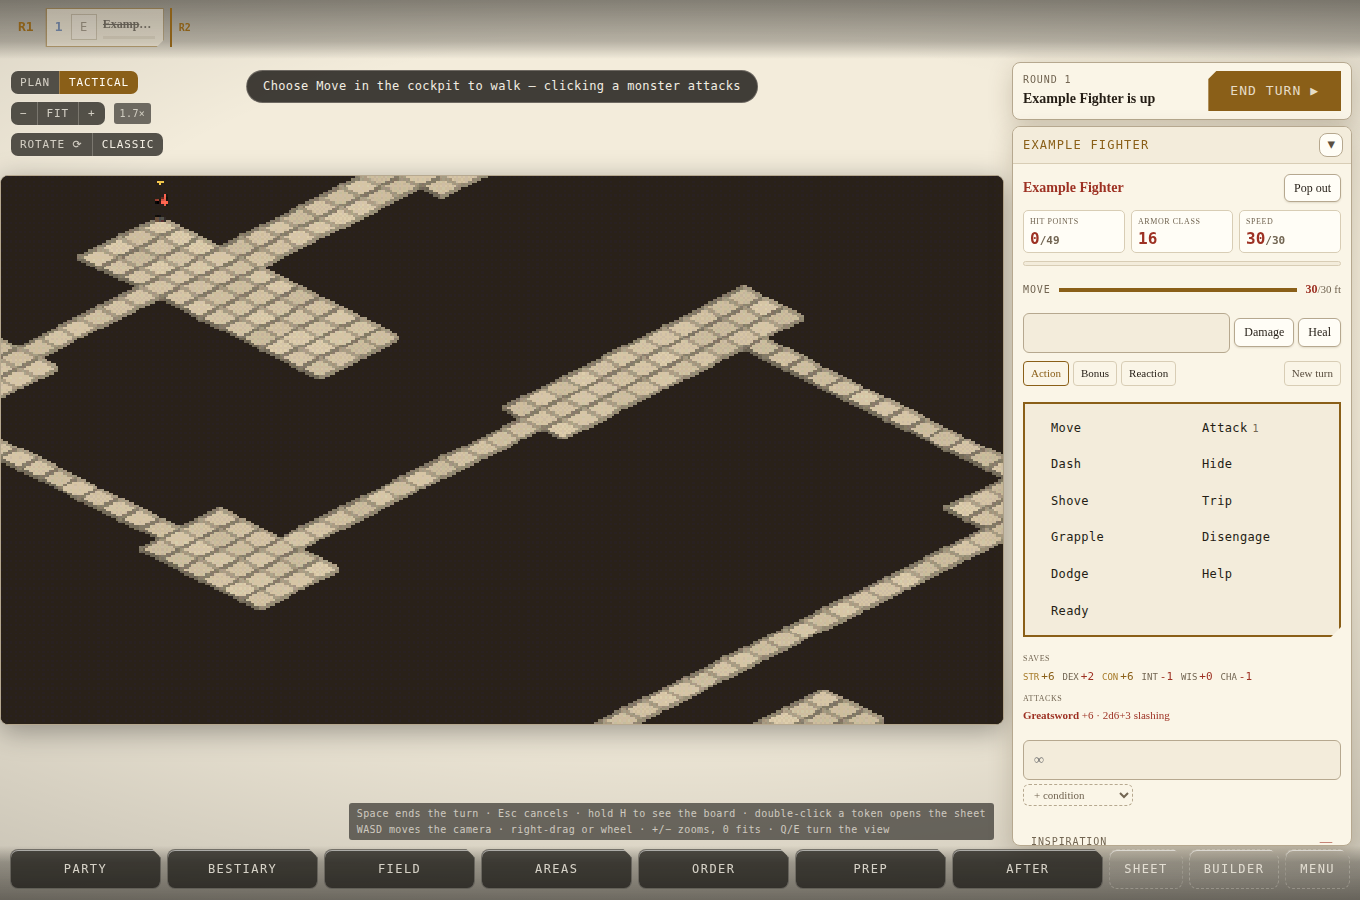
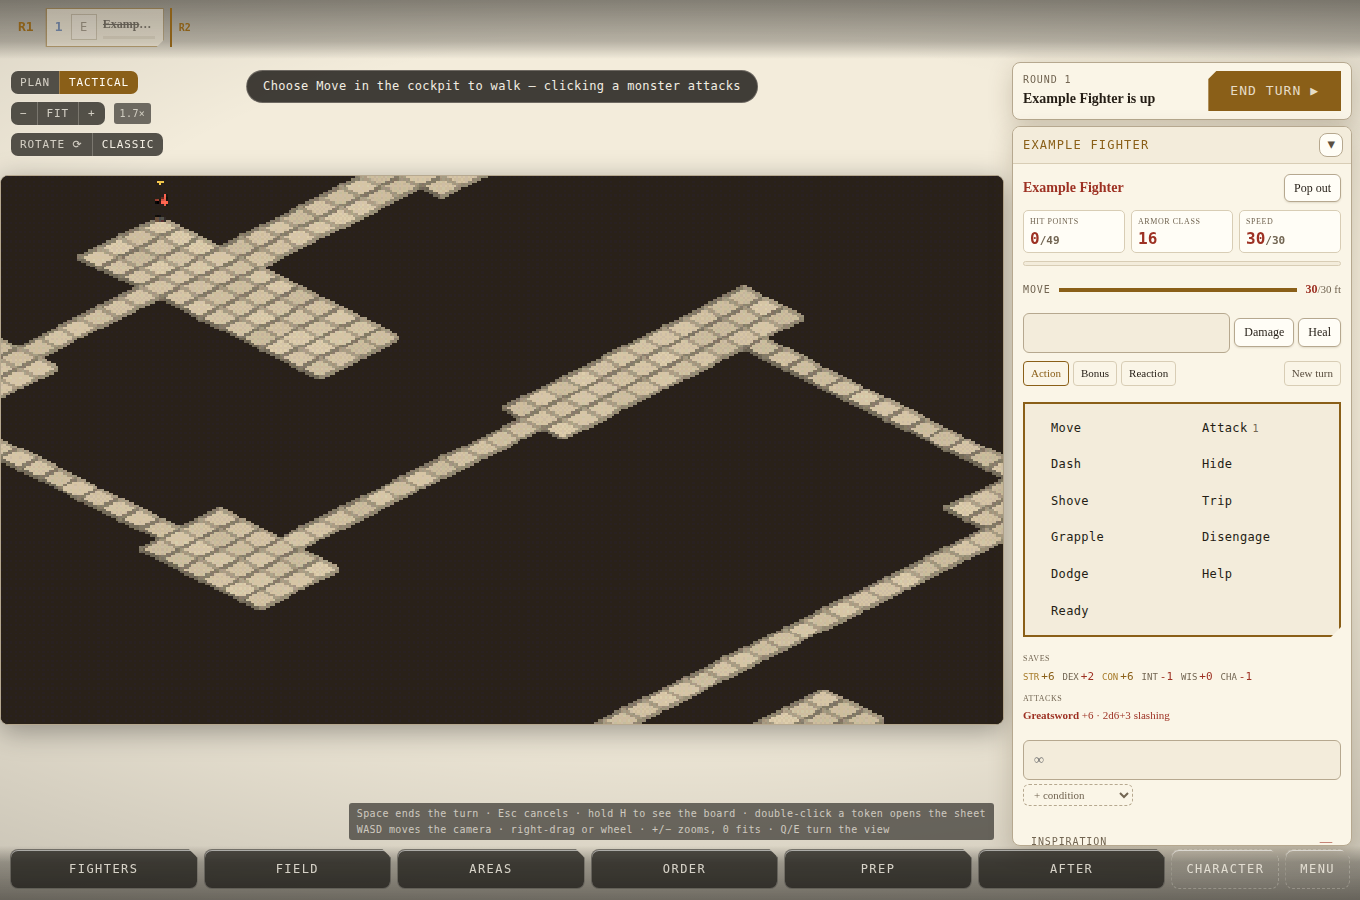
75: the UI pass - fewer doors, each in the right wall
The audit measured, then moved. The battle bar had grown to ten
shrink-only buttons and clipped below ~860px - the reported "no place
on field button" was this. Party+Bestiary merged into Fighters,
Sheet+Builder into one Character exit (the sheet already carries Edit
in Builder), and the bar wears overflow-x: auto as a backstop, so the
bar is eight buttons that cannot vanish. The group save moved from
Order into Areas beside the hazards that call for it. The camera
cluster slides clear of an open drawer (.btl-stage:has(.btl-drawer))
instead of sitting unclickable beneath it. The Field drawer leads with
its verbs and points at the Dungeons tab. Species x Class left the hub
for a door on the Builder's game bar, with Back to the Builder as its
exit.

Tests translate the old drawer names in one helper map; the four
save-panel opens now open Areas. Probes run57/65-70 updated for the
new labels; run75 walks the whole pass in both themes, including
eight-buttons-whole at 820px and Classic look pressable with a drawer
open.

Claude-Session: https://claude.ai/code/session_01P7mvAGGDaTo6pgMbhp2jHV

diff --git a/src/components/TableTab.tsx b/src/components/TableTab.tsx
@@ -216,7 +216,6 @@ export function TableTab({
   bestiary,
   ruleset,
   onHome,
-  onEdit,
   onSheet,
 }: {
   roster: Roster;
@@ -247,7 +246,6 @@ export function TableTab({
    * Every other pair in the app already carries a door to its partner. This
    * is that rule finished rather than a new one.
    */
-  onEdit?: () => void;
   onSheet?: () => void;
 }) {
   const { monsters: srd, loading } = useMonsters();
@@ -4582,29 +4580,11 @@ export function TableTab({
       subtitle="The ground you are fighting on, and how the table is looking at it."
     >
       {/*
-        The optional rules, where the rule applies. Off is the book: the
-        app's claim is that it plays fifth edition, and a number quietly
-        disagreeing with it would make every other number harder to trust.
-        The log names each one either way, so a fight can be read back and
-        understood whichever way the switch was set.
-      */}
-      <div className="row" style={{ gap: 12, flexWrap: 'wrap', marginBottom: 8 }}>
-        {HOUSE_RULE_INFO.map((rule) => (
-          <label className="checkbox" key={rule.id} title={rule.hint}>
-            <input
-              type="checkbox"
-              checked={houseRules[rule.id]}
-              onChange={(e) => setHouseRules({ ...houseRules, [rule.id]: e.target.checked })}
-            />
-            <span>{rule.label}</span>
-          </label>
-        ))}
-      </div>
-
-      {/*
-        The picker: the Dungeons tab's drawer, read-only from here. Loading
-        copies the saved map's fields onto the live encounter in one write -
-        tokens come off, because the rooms they stood in are gone.
+        §75: the panel leads with its verbs - load a place, seat everyone -
+        and the switches follow. The picker is the Dungeons tab's drawer,
+        read-only from here; loading copies the saved map's fields onto the
+        live encounter in one write, and tokens come off, because the rooms
+        they stood in are gone.
       */}
       {dungeonLibrary.length > 0 && (
         <div className="row" style={{ gap: 6, flexWrap: 'wrap', marginBottom: 8 }}>
@@ -4635,6 +4615,8 @@ export function TableTab({
           : layout
             ? `Hand-built · ${dungeon.rooms.length} ${dungeon.rooms.length === 1 ? 'room' : 'rooms'} · each square is 5 ft.`
             : `Seed ${seed} · ${dungeon.rooms.length} rooms · each square is 5 ft.`}
+        {' '}Rooms, corridors and denizens are drawn in the Dungeons tab; this drawer
+        loads what it saves.
       </p>
 
       <div className="row" style={{ gap: 6, flexWrap: 'wrap', marginBottom: 8 }}>
@@ -4662,6 +4644,26 @@ export function TableTab({
         )}
       </div>
 
+
+            {/*
+        The optional rules, where the rule applies. Off is the book: the
+        app's claim is that it plays fifth edition, and a number quietly
+        disagreeing with it would make every other number harder to trust.
+        The log names each one either way, so a fight can be read back and
+        understood whichever way the switch was set.
+      */}
+      <div className="row" style={{ gap: 12, flexWrap: 'wrap', margin: '8px 0' }}>
+        {HOUSE_RULE_INFO.map((rule) => (
+          <label className="checkbox" key={rule.id} title={rule.hint}>
+            <input
+              type="checkbox"
+              checked={houseRules[rule.id]}
+              onChange={(e) => setHouseRules({ ...houseRules, [rule.id]: e.target.checked })}
+            />
+            <span>{rule.label}</span>
+          </label>
+        ))}
+      </div>
 
       <div className="row" style={{ alignItems: 'center', gap: 12, marginBottom: 8, flexWrap: 'wrap' }}>
         <label className="checkbox" style={{ margin: 0 }}>
@@ -5787,12 +5789,20 @@ export function TableTab({
     about a fight rather than for running one. Kept-but-unused code that
     carries its own tests reads as load-bearing, so it goes.
   */
+  /*
+    §75: seven drawers became six, and the bar's three exits became two,
+    because the bar had quietly grown to ten buttons against a layout whose
+    own comment promised seven. The merges are by subject, not just by
+    count: Fighters is one answer to "who is in this fight" (the party
+    list, then the bestiary the §11.3 search already spanned), and the
+    group-save form lives with Areas because the room usually rolls right
+    after the fireball lands on it.
+  */
   const drawers = [
-    { id: 'party', label: 'Party', hint: 'Who is in the fight, and who could be', content: partyPanel },
-    { id: 'foes', label: 'Bestiary', hint: 'Search the stat blocks and add them', content: monstersPanel },
+    { id: 'party', label: 'Fighters', hint: 'The party, the bestiary, and who joins the fight', content: <>{partyPanel}{monstersPanel}</> },
     { id: 'field', label: 'Field', hint: 'The ground, the dungeon, fog and the camera', content: fieldPanel },
-    { id: 'areas', label: 'Areas', hint: 'Spells on the ground', content: zonePanel },
-    { id: 'order', label: 'Order', hint: 'Initiative, hit points, conditions, saves', content: <>{fightPanel}{savesPanel}</> },
+    { id: 'areas', label: 'Areas', hint: 'Spells on the ground, and the saves they call for', content: <>{zonePanel}{savesPanel}</> },
+    { id: 'order', label: 'Order', hint: 'Initiative, hit points, conditions', content: fightPanel },
     { id: 'plan', label: 'Prep', hint: 'What this fight will do, and the drawer of saved ones', content: <>{forecastPanel}{libraryPanel}</> },
     { id: 'after', label: 'After', hint: 'The debrief, the payout and the whole log', content: <>{debriefPanel}{logPanel}</> },
   ] as const;
@@ -5934,20 +5944,10 @@ export function TableTab({
             <button
               type="button"
               className="btl-cmd btl-cmd-home"
-              title="The character sheet for whoever is loaded. The fight stays on the table."
+              title="The loaded character's sheet - the Builder is one click from there. The fight stays on the table."
               onClick={onSheet}
             >
-              Sheet
-            </button>
-          )}
-          {onEdit && (
-            <button
-              type="button"
-              className="btl-cmd btl-cmd-home"
-              title="Edit the loaded character. The fight stays on the table."
-              onClick={onEdit}
-            >
-              Builder
+              Character
             </button>
           )}
           {onHome && (

diff --git a/src/components/TableTab.test.tsx b/src/components/TableTab.test.tsx
@@ -74,17 +74,25 @@ function setup(initial: Roster, bestiary: Monster[] = [], ruleset: Ruleset = '20
   helpers that have no `user` in scope, and a synchronous `fireEvent` is enough
   to press a button that only flips component state.
 */
+/*
+  §75 merged Party and Bestiary into one Fighters drawer; the hundred-odd
+  call sites keep their old names and this remap keeps them honest, because
+  both panels now live behind the one button.
+*/
+const DRAWER_OF: Record<string, string> = { Party: 'Fighters', Bestiary: 'Fighters' };
+
 const openSync = (label: string) => {
   const bar = document.querySelector('.btl-bar');
   if (!bar) return;
-  const button = within(bar as HTMLElement).queryByRole('button', { name: label });
+  const name = DRAWER_OF[label] ?? label;
+  const button = within(bar as HTMLElement).queryByRole('button', { name });
   if (button && button.getAttribute('aria-pressed') !== 'true') fireEvent.click(button);
 };
 
 const open = async (user: ReturnType<typeof userEvent.setup>, label: string) => {
   const bar = document.querySelector('.btl-bar');
   if (!bar) return;
-  const button = within(bar as HTMLElement).getByRole('button', { name: label });
+  const button = within(bar as HTMLElement).getByRole('button', { name: DRAWER_OF[label] ?? label });
   if (button.getAttribute('aria-pressed') !== 'true') await user.click(button);
 };
 
@@ -1261,8 +1269,9 @@ describe('running the monsters', () => {
     const view = setup(party());
     await fightWithGoblin(user, view);
 
-    // DC 30: everybody fails, so the arithmetic is deterministic.
-    await open(user, 'Order');
+    // DC 30: everybody fails, so the arithmetic is deterministic. The group
+    // save moved in with the areas (§75): the room rolls where the hazard is.
+    await open(user, 'Areas');
     fireEvent.change(screen.getByLabelText('DC'), { target: { value: '30' } });
     fireEvent.change(screen.getByLabelText('Damage'), { target: { value: '8' } });
     await user.click(screen.getByRole('button', { name: /roll the room/i }));
@@ -1300,7 +1309,7 @@ describe('the fight’s clocks and the drawer', () => {
     await user.click(within(entry).getByRole('button', { name: 'Add' }));
 
     // Fireball the room: everyone fails at DC 30, 20 damage → DC 10 vs half.
-    await open(user, 'Order');
+    await open(user, 'Areas');
     fireEvent.change(screen.getByLabelText('DC'), { target: { value: '30' } });
     fireEvent.change(screen.getByLabelText('Damage'), { target: { value: '22' } });
     await user.click(screen.getByRole('button', { name: /roll the room/i }));
@@ -4135,12 +4144,12 @@ describe('ground that helps, and ground that picks a side', () => {
 
     // Roll the room once with no aura, then again standing in one: the same
     // character's bonus is three higher, which is the whole feature.
-    await open(user, 'Order');
+    await open(user, 'Areas');
     await user.click(screen.getByRole('button', { name: /roll the room/i }));
     const before = [...document.querySelectorAll('.reasons li')][0]?.textContent ?? '';
 
     await dropAt6(user, 'aura-of-protection', standing);
-    await open(user, 'Order');
+    await open(user, 'Areas');
     await user.click(screen.getByRole('button', { name: /roll the room/i }));
     const after = [...document.querySelectorAll('.reasons li')][0]?.textContent ?? '';
 

diff --git a/src/App.tsx b/src/App.tsx
@@ -612,7 +612,6 @@ export default function App() {
           state: build.name?.trim() || undefined,
         },
         { id: 'sheet', label: 'The character sheet', hint: 'The paper one, and the dice that go with it' },
-        { id: 'pairings', label: 'Species × Class', hint: 'What each pairing is worth, before you commit to one' },
       ],
     },
     {
@@ -713,8 +712,20 @@ export default function App() {
           </button>
           <span className="gbar-screen">{TAB_LABELS[tab]}</span>
           <span className="gbar-actions">
+            {tab === 'pairings' && (
+              <button className="btn btn-sm" onClick={() => setTab('builder')}>
+                Back to the Builder
+              </button>
+            )}
             {tab === 'builder' && (
               <>
+                <button
+                  className="btn btn-sm"
+                  title="Every species × class pairing rated - the reference this screen decides against"
+                  onClick={() => setTab('pairings')}
+                >
+                  Species × Class
+                </button>
                 <button
                   className="btn btn-sm"
                   onClick={stepBack}
@@ -830,7 +841,6 @@ export default function App() {
             bestiary={bestiary}
             ruleset={build.ruleset}
             onHome={() => setTab('title')}
-            onEdit={() => setTab('builder')}
             onSheet={() => setTab('sheet')}
           />
         )}

diff --git a/src/index.css b/src/index.css
@@ -5687,6 +5687,7 @@ dl.detail-list {
   top: calc(var(--hud-top, 0px) + 8px);
   left: 10px;
   z-index: 4;
+  transition: left 0.15s ease;
   display: flex;
   flex-direction: column;
   align-items: flex-start;
@@ -7454,6 +7455,16 @@ dl.detail-list {
   left: 8px;
   bottom: var(--hud-bottom);
   width: min(480px, 52vw);
+}
+
+/*
+  §75: an open drawer owns the left edge, so the camera cluster slides out
+  from under it instead of becoming unclickable - the §70 probe had to
+  close a drawer to reach Classic look, and a probe fumbling for a button
+  is a user fumbling for it.
+*/
+.btl-stage:has(.btl-drawer) .hud-cam {
+  left: calc(min(480px, 52vw) + 18px);
   /* Above every docked float: a drawer is the thing you are looking at right
      now, and it is the one panel that closes. */
   z-index: 14;
@@ -7495,6 +7506,10 @@ dl.detail-list {
   align-items: center;
   gap: 6px;
   padding: 0 10px 8px;
+  /* §75: belt and braces under the shrink - if a future button pushes the
+     row past the window, it scrolls rather than silently clipping a menu
+     off the end, which is how "the Field button disappeared" got reported. */
+  overflow-x: auto;
   /* Same idea as the timeline's scrim: the bar sits ON the board now, so it
      wears the battle HUD's dark glass instead of resting on page colour. */
   background: linear-gradient(transparent, rgba(24, 22, 18, 0.32) 30%, rgba(24, 22, 18, 0.55));

diff --git a/docs/HISTORY.md b/docs/HISTORY.md
@@ -5251,3 +5251,57 @@ in both themes: search, stamp, wander, save, load on the battle screen -
 the standing goblin arrives placed, and deploy seats the wanderer.
 
 **Gates.** 2167 tests / 100 files, tsc, oxlint, build in budget.
+
+## 75. The UI pass: fewer doors, each in the right wall
+
+*"Anything to help with UI. any menus that dont need to exist or can be
+bundled together. or possible the opposite if there are menus that need
+to be split" - then "go through and fix the issues you found."*
+
+The audit measured before it moved anything: the battle bar had grown to
+ten shrink-only buttons, which below ~860px pushed the tenth off the
+edge - the earlier report that "there is no longer a place on field
+button" was this, the bar clipping, not the button gone. The fixes are
+merges where two doors led to one errand, one split where a control sat
+in the wrong drawer, and a demotion where the hub advertised a
+subordinate screen.
+
+**The bar is eight buttons.** Party and Bestiary merged into
+**Fighters** - both were "who is in this fight", and every add-a-monster
+test opened them as a pair anyway. The Sheet and Builder exits merged
+into **Character** - the sheet already carries "Edit in Builder", so two
+bar slots bought one click. And the bar itself learned `overflow-x:
+auto`, so whatever width remains, a button can scroll into reach rather
+than vanish.
+
+**The group save moved in with the areas.** DC, damage and "Roll the
+room" lived in Order; the fireball that calls for them is drawn in
+Areas. They now share the drawer with the zone shelf - the room rolls
+right after the hazard lands - and Order is initiative, hit points and
+conditions, whole.
+
+**The camera dodges the drawer.** An open drawer owns the left edge
+where the camera cluster lives; the §70 probe had to close a drawer to
+press Classic look, and a probe fumbling for a button is a user fumbling
+for it. `.btl-stage:has(.btl-drawer) .hud-cam` slides the cluster to the
+drawer's right edge, with a transition so it visibly steps aside.
+
+**The Field drawer leads with its verbs.** The dungeon picker and
+"Put everyone on the map" come first; the house-rule toggles moved below
+them; a note says plainly that rooms, corridors and denizens are drawn
+in the Dungeons tab.
+
+**Species × Class left the hub.** It is a Builder satellite, not a
+destination - it now hangs off the Builder's game bar, with "Back to the
+Builder" as its one exit, and the hub's Create group is the shorter for
+it.
+
+**Pinned.** The test helpers translate the old drawer names, so four
+thousand lines of suite state intent ("open the Party") and one map
+states the wiring. The probe walks the whole pass in both themes: eight
+buttons whole at 820px, party and bestiary in one drawer, the save form
+in Areas and gone from Order, Classic look pressable while a drawer is
+open, Character landing on the sheet, and the pairings screen reachable
+from the Builder but absent from the hub.
+
+**Gates.** 2167 tests / 100 files, tsc, oxlint, build in budget.

diff --git a/ROADMAP.md b/ROADMAP.md
@@ -421,7 +421,7 @@ section has gone since.
 | 5e core mechanics: grapple, light, surprise, the small rules | 39-42 |
 | Builder correctness, and the audits that found it | 43-52 |
 
-## Dungeon furniture: hidden rooms, locked doors, traps (§75, designed not built)
+## Dungeon furniture: hidden rooms, locked doors, traps (designed, not built)
 
 Asked for alongside §73/§74. Not rushed in with them because each piece
 needs a *reveal* decision the map does not currently have to make - the
